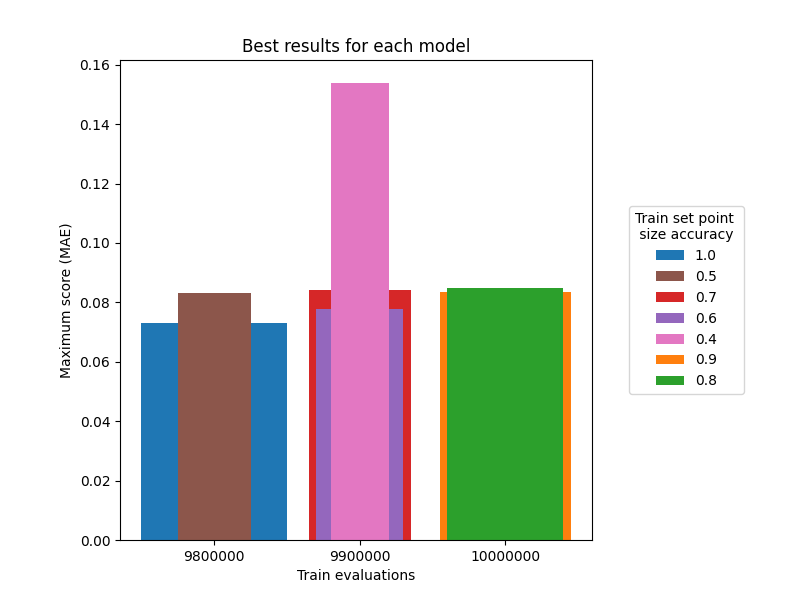
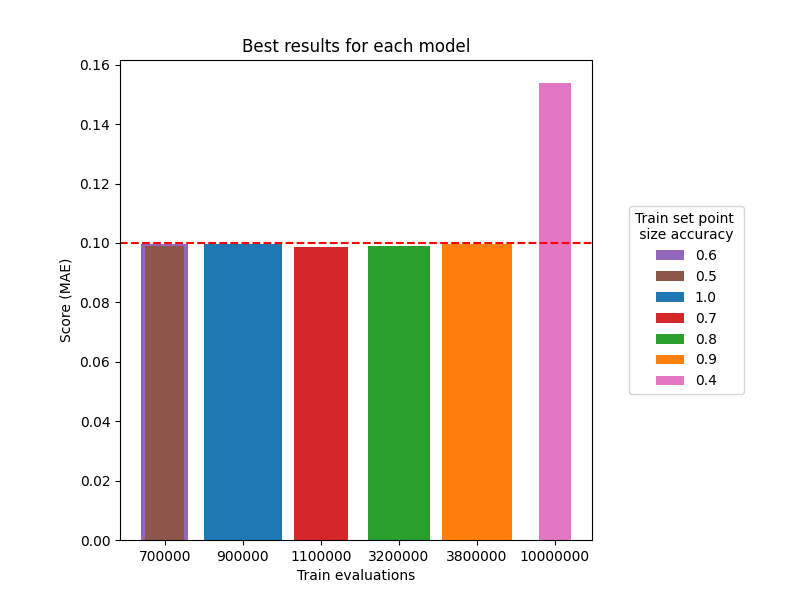
change figure

diff --git a/experimentScripts_SymbolicRegressor/ConstantAccuracyAnalysis_figures.py b/experimentScripts_SymbolicRegressor/ConstantAccuracyAnalysis_figures.py
@@ -160,6 +160,9 @@ print('GRAFICA 2')
 plt.figure(figsize=[8,6])
 plt.subplots_adjust(left=0.15,bottom=0.1,right=0.74,top=0.9,wspace=0.36,hspace=0.4)
 
+# Límite de score prefijado.
+score_limit=0.1
+
 # Conseguir datos para la gráfica.
 train_times=[]
 max_scores=[]
@@ -171,8 +174,12 @@ for accuracy in list_acc:
     # Extraer de la base de datos la información relevante.
     all_mean_scores,all_q05_scores,all_q95_scores=train_data_to_figure_data(df_train_acc,list_train_n_eval)
 
-    # Encontrar cuando se da el máximo score por primera vez.
-    ind_min=all_mean_scores.index(min(all_mean_scores))
+    # Encontrar cuando se da el límite de score prefijado por primera vez.
+    limit_scores=list(np.array(all_mean_scores)<=score_limit)
+    if True in limit_scores:
+        ind_min=limit_scores.index(True)
+    else:
+        ind_min=len(all_mean_scores)-1
     train_times.append(list_train_n_eval[ind_min])
     max_scores.append(all_mean_scores[ind_min])
 
@@ -187,9 +194,10 @@ colors=[list(mcolors.TABLEAU_COLORS.keys())[i] for i in ind_sort]
 ax=plt.subplot(111)
 ax.bar(train_times_sort,max_scores_sort,acc_sort,label=acc_sort_str,color=colors)
 ax.set_xlabel("Train evaluations")
-ax.set_ylabel("Maximum score (MAE)")
+ax.set_ylabel("Score (MAE)")
 ax.set_title('Best results for each model')
 ax.legend(title="Train set point \n size accuracy",bbox_to_anchor=(1.2, 0, 0, 1), loc='center')
+plt.axhline(y=score_limit,color='red', linestyle='--')
 plt.savefig('results/figures/SymbolicRegressor/best_results.png')
 plt.show()
 plt.close()
